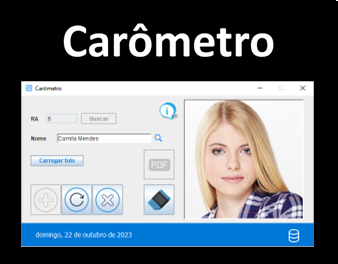
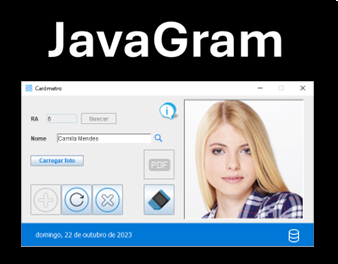
ajustes

Changed region(s): [[0.1183, 0.0606, 0.858, 0.2424]]

diff --git a/projeto/carometro.html b/projeto/carometro.html
@@ -1,7 +1,7 @@
 <!DOCTYPE html>
 <html lang="pt-br">
 
-<head>  
+<head>
   <meta charset="UTF-8">
   <meta name="viewport" content="width=device-width,
    initial-scale=1.0">
@@ -45,23 +45,22 @@
   <!-- Conteúdo -->
   <section id="conteudo">
     <div class="Container">
-      <h2>Carômetro</h2>
-      <p>
-        Carômetro é um aplicativo para desktop (Windows, Linux ou MAC) de repositório de informações de pessoas com uma
-        foto associada. No exemplo um carômetro de alunos, porém você pode reutilizar este projeto e criar um
-        repositório de imagens de uma equipe, candidatos, jogadores de futebol etc.
+      <h2>JavaGRAM</h2>
+      <p>Java com MySQL e upload de imagens? Temos!</p>
+      <p>Neste projeto prático, você vai criar um Carômetro Digital, o famoso mural de carinhas da turma, só que versão
+        tech, com interface gráfica em Java, banco de dados MySQL e direito até a upload de fotos dos alunos.</p>
+      <p>É quase um Instagram raiz da sala de aula: sem stories, sem filtro... só código puro e funcional!</p>
+      <p>😃 Porque foto 3x4 é coisa do passado!</p>
       </p>
-      <p>Tutorial passo a passo do "zero" até a distribuição usando a linguagem Java e o banco de dados MySQL.</p>
-      <h3>Tecnologias usadas neste projeto:</h3>
+      <h3>Você vai aprender:</h3>
       <ul>
-        <li>🗄 Criação de banco de dados e tabelas no MySQL</li>
-        <li>🔄 CRUD (Create Read Update e Delete)</li>
+        <li>🗄 Conexão Java com MySQL (JDBC)</li>
+        <li>🔄 Cadastro, edição e exclusão de alunos (CRUD)</li>
         <li>💻 IDE Eclipse</li>
-        <li>☕ Java SE</li>
-        <li>🧱 Window Builder</li>
-        <li>🔗 JDBC (Java Database Connectivity)</li>
-        <li>✅ Validação de dados</li>
-        <li>📄🖼 Uso da biblioteca iTextpdf para gerar listagem de alunos com foto</li>
+        <li>🧱 Interface amigável com Java Swing (usando Window Builder)</li>
+        <li>🖼 Upload e exibição de imagens direto no banco</li>
+        <li>📄 Uso da biblioteca iTextpdf para gerar listagem de alunos com foto</li>
+        <li>✅ Dicas práticas para aplicar em projetos reais</li>
       </ul>
       <h3>Pré-requisitos:</h3>
       <p>

diff --git a/index.html b/index.html
@@ -185,10 +185,9 @@
         </div>
         <div class="Card">
           <img src="img/carometro.png" alt="java mysql">
-          <h3>Carômetro</h3>
+          <h3>JavaGRAM</h3>
           <p>
-            Carômetro é um aplicativo Java para desktop (Windows, Linux ou MAC) de repositório de informações de pessoas com
-            uma foto associada.
+            Neste projeto prático, você vai criar um Carômetro Digital, o famoso mural de carinhas da turma, usando Java e o banco de dados MySQL.
           </p>
           <a href="projeto/carometro.html" class="Botao3">Saiba +</a>
         </div>

diff --git a/projetos.html b/projetos.html
@@ -64,10 +64,9 @@
         </div>
         <div class="Card">
           <img src="img/carometro.png" alt="java mysql">
-          <h3>Carômetro</h3>
+          <h3>JavaGRAM</h3>
           <p>
-            Carômetro é um aplicativo Java para desktop (Windows, Linux ou MAC) de repositório de informações de pessoas com
-            uma foto associada.
+            Neste projeto prático, você vai criar um Carômetro Digital, o famoso mural de carinhas da turma, usando Java e o banco de dados MySQL.
           </p>
           <a href="projeto/carometro.html" class="Botao3">Saiba +</a>
         </div>
